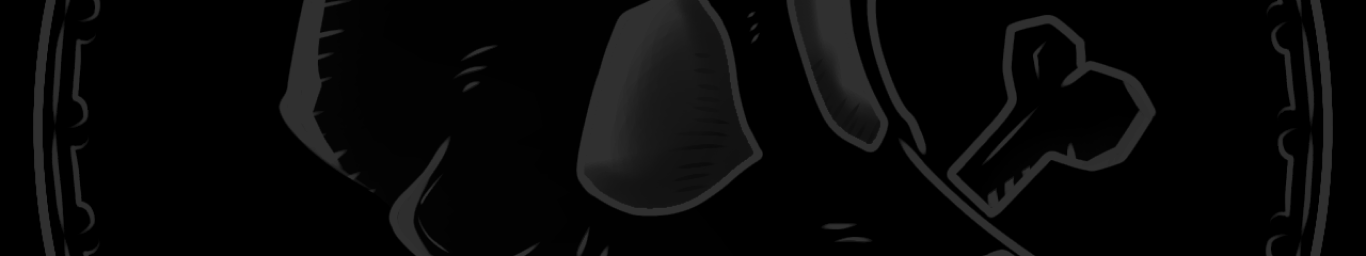
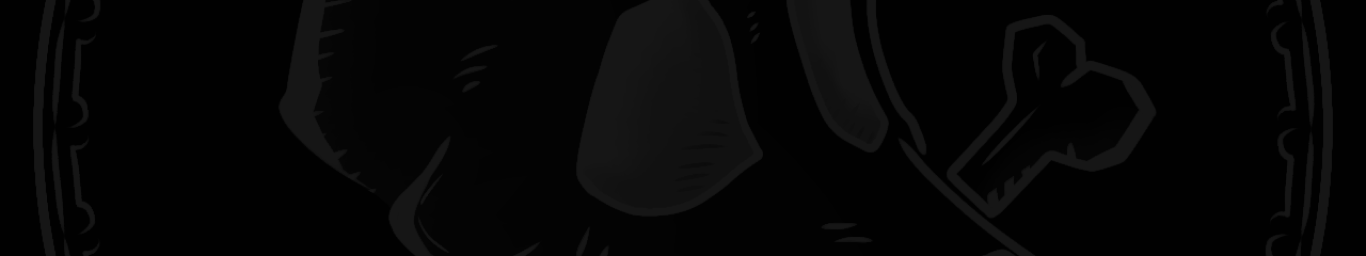
chore: first card finished, second lack stylize

diff --git a/src/components/SecondScreen/Overview/index.css b/src/components/SecondScreen/Overview/index.css
@@ -1,0 +1,111 @@
+@import url('https://fonts.googleapis.com/css2?family=Nunito:wght@300;600&display=swap');
+
+.root {
+    background-color: #F6F6F6;
+    margin: 0;
+}
+ 
+.flyerImg {
+    width: 500px;
+}
+
+.containerArticles {
+    display: flex;
+    justify-content: center;
+    align-items: center;
+    width: 100%;
+}
+
+.articleDate {
+    width: 45%;
+
+}
+
+.articleInfo {
+    width: 55%;
+
+}
+
+/* Calendario */
+.containerCalendar {
+    display: flex;
+    justify-content: center;
+    align-items: center;
+}
+
+.calendar {
+    position: relative;
+    width: 140px;
+    background-color: #F6F6F6;
+    text-align: center;
+    border-radius: 8px;
+    overflow: hidden;
+    margin-top: 40px;
+    margin-bottom: 40px;
+}
+
+.calendar #monthName {
+    position: relative;
+    padding: 12px 10px;
+    background: #020F1F;
+    color: #fff;
+    font-size: 15px;
+    font-weight: 500;
+}
+
+.calendar #dayName {
+    margin-top: 13px;
+    font-size: 20px;
+    font-weight: 300;
+    color: #999;
+}
+
+.calendar #dayNumber {
+    margin-top: 5px;
+    margin-bottom: 5px;
+    line-height: 1em;
+    font-size: 40px;
+    font-weight: 700;
+    color: #333;
+}
+
+.calendar #year {
+    margin-bottom: 13px;
+    font-size: 20px;
+    font-weight: 500;
+    color: #999;
+}
+
+/* Textos */
+.title {
+    font-family: 'Nunito', sans-serif;
+    font-weight: 600;
+    font-size: 24px;
+}
+
+.subtitle {
+    font-family: 'Nunito';
+    font-weight: 300;
+    font-size: 15px;
+    margin-bottom: 10px;
+    margin-top: 10px;
+}
+
+
+.texts {
+    font-family: 'Nunito';
+    font-weight: 300;
+    font-size: 14px;
+    margin: 10px 0 10px 12px;
+}
+
+.iconText {
+    display: flex;
+    align-items: center;
+}
+
+.buttonMaps {
+    color: inherit;
+    text-transform: none !important;
+    text-decoration: underline #111 !important;
+}

diff --git a/src/components/SecondScreen/Overview/index.tsx b/src/components/SecondScreen/Overview/index.tsx
@@ -1,0 +1,65 @@
+
+import { Button, Paper } from '@material-ui/core';
+import Flyer from '../../../assets/Images/flyer.jpg';
+import RoomIcon from '@material-ui/icons/Room';
+import DomainIcon from '@material-ui/icons/Domain';
+
+import Info from './texts.json';
+import './index.css';
+
+const Date = () => {
+
+  return (
+    <div className='containerCalendar'>
+      <div className='calendar'>
+        <p id='monthName'>Noviembre</p>
+        <p id='dayName'>Sábado</p>
+        <p id='dayNumber'>12</p>
+        <p id='year'>2022</p>
+      </div>
+    </div>
+  )
+}
+ 
+const Overview = () => {
+  return ( 
+    <div className='root'> 
+      <Paper elevation={10}>
+        <img src={ Flyer } className="flyerImg" alt="Flyer de Clavo" />
+        <div className='containerArticles'>
+          <article className='articleDate'>
+            { Date() }
+          </article>
+          <article className='articleInfo'>
+            <p className='title'>
+              { Info.titulo }
+            </p>
+            <p className='subtitle'>
+              { Info.fecha }
+            </p>
+            <div className="iconText">
+              <RoomIcon fontSize="small" />
+              <p className='texts'>
+                { Info.lugar }
+              </p>
+            </div>
+            <div className="iconText">
+              <DomainIcon fontSize="small" />
+              <p className='texts'>
+                { Info.direccion }
+              </p>
+            </div>
+            <a href="https://goo.gl/maps/RDH9LXwwcKso6mS5A" rel="noreferrer" target="_blank">
+              <Button className="buttonMaps">
+                Ver en Google Maps
+              </Button>
+            </a>
+          </article> 
+
+        </div>
+      </Paper>
+    </div>
+  )
+}
+
+export default Overview;

diff --git a/src/components/SecondScreen/EventInformation/index.tsx b/src/components/SecondScreen/EventInformation/index.tsx
@@ -1,0 +1,64 @@
+import { Button, Divider, Paper } from '@material-ui/core';
+
+import Info from './texts.json';
+import './index.css';
+ 
+const EventInformation = () => {
+  return ( 
+    <div className='root'> 
+      <Paper elevation={10} className='paper'>
+        <h6 className='titleInformation'>
+          INFORMACIÓN IMPORTANTE
+        </h6>
+        <p>
+          {Info.cabecera}
+        </p>
+        <p>
+          {Info.subCabecera}
+        </p>
+        <p className='titleFecha'>
+          {Info.primerFecha}
+        </p>
+        <p>
+          {Info.primerValor}
+        </p>
+        <p className='titleFecha'>
+          {Info.segundaFecha}
+        </p>
+        <p>
+          {Info.segundoValor}
+        </p>
+        <Divider className='divider'/> 
+        <p className='titleFecha'>
+          {Info.asistentes}
+        </p>
+        <p>
+          {Info.infoAsistentes1}
+        </p>
+        <p> 
+          {Info.infoAsistentes2}
+        </p>
+        <Divider className='divider'/> 
+        <p className='titleFecha'>
+          {Info.tituloHorario} 
+        </p>
+        <p>
+          {Info.horarioPuerta}
+        </p>
+        <p>
+          {Info.horarioClavo}
+        </p>
+        <p>
+          {Info.horarioDj}
+        </p>
+        <Divider className='divider'/> 
+        <Button variant="contained" className='buttonBuy'>
+          COMPRAR ENTRADAS
+        </Button>
+      </Paper>
+    </div>
+  )
+}
+
+export default EventInformation;
+ 

diff --git a/src/components/SecondScreen/EventInformation/index.css b/src/components/SecondScreen/EventInformation/index.css
@@ -1,0 +1,47 @@
+@import url('https://fonts.googleapis.com/css2?family=Nunito:wght@300;600&display=swap');
+
+.paper {
+    width: 700px;
+    display: flex;
+    flex-direction: column;
+    justify-content: center;
+    align-items: center;
+}
+
+.titleInformation {
+    margin: 35px 0 15px 0;
+    background-color: #1A406F;
+    width: 85%;
+    color: #fff;
+    text-align: center;
+    font-family: 'Nunito';
+    font-weight: 600;
+    font-size: 15px;
+    padding: 7px;
+}
+
+.buttonBuy {
+    padding: 10px 40px 10px 40px !important;
+    background: #3D00E6 !important;
+    box-shadow: 0px 4px 4px rgba(0, 0, 0, 0.25) !important;
+    color: #fff !important;
+    font-family: 'Roboto' !important;
+    font-weight: 300 !important;
+    font-size: 13px !important;
+    border-radius: 10px !important;
+    margin-top: 35px !important;
+    margin-bottom: 35px !important;
+}
+
+.titleFecha {
+    font-family: 'Nunito';
+    font-weight: 700;
+    font-size: 16px;
+    color: #1A406F;
+    margin-top: 35px;
+    margin-bottom: 10px;
+}
+
+.divider {
+    width: 80%;
+}

diff --git a/src/components/FirstScreen/Icons/index.tsx b/src/components/FirstScreen/Icons/index.tsx
@@ -28,7 +28,7 @@ const Icons = () => {
             <path d="M8 0a8 8 0 1 0 0 16A8 8 0 0 0 8 0zm3.669 11.538a.498.498 0 0 1-.686.165c-1.879-1.147-4.243-1.407-7.028-.77a.499.499 0 0 1-.222-.973c3.048-.696 5.662-.397 7.77.892a.5.5 0 0 1 .166.686zm.979-2.178a.624.624 0 0 1-.858.205c-2.15-1.321-5.428-1.704-7.972-.932a.625.625 0 0 1-.362-1.194c2.905-.881 6.517-.454 8.986 1.063a.624.624 0 0 1 .206.858zm.084-2.268C10.154 5.56 5.9 5.419 3.438 6.166a.748.748 0 1 1-.434-1.432c2.825-.857 7.523-.692 10.492 1.07a.747.747 0 1 1-.764 1.288z"/>
           </svg>
         </button>  
-        </a>
+      </a>
 
       <a href="https://www.instagram.com/clavo.oficial/" rel="noreferrer" target="_blank">
         <button className="buttonIcon">

diff --git a/src/containers/TicketOperation/index.tsx b/src/containers/TicketOperation/index.tsx
@@ -1,4 +1,4 @@
-import { Headboard, Header } from '../../components';
+import { EventInformation, Headboard, Header, Overview } from '../../components';
 import './index.css';
 
 const TicketOperation = () => {
@@ -6,6 +6,10 @@ const TicketOperation = () => {
     <>
       <Header />
       <Headboard />
+      <div className='containerCards'>
+        <Overview />
+        <EventInformation />
+      </div>
     </>
   )
 }

diff --git a/src/components/index.ts b/src/components/index.ts
@@ -3,3 +3,7 @@ export { default as Card } from './FirstScreen/Card';
 
 export { default as Header } from './SecondScreen/Header';
 export { default as Headboard } from './SecondScreen/Headboard';
+export { default as Overview } from './SecondScreen/Overview';
+export { default as EventInformation } from './SecondScreen/EventInformation';
+
+

diff --git a/src/components/SecondScreen/Headboard/index.css b/src/components/SecondScreen/Headboard/index.css
@@ -1,10 +1,5 @@
 .background {
-    background-image: 
-    linear-gradient(
-      rgba(0, 0, 0, 0.5),
-      rgba(0, 0, 0, 0.5)
-    ),
-    url(../../../assets/Images/background.png);
+    background-image: url(../../../assets/Images/background.png);
     background-repeat: no-repeat;
     background-size: 100%;
     height: 28vh;

diff --git a/src/containers/TicketOperation/index.css b/src/containers/TicketOperation/index.css
@@ -1,0 +1,8 @@
+.containerCards {
+    background-color: #F6F6F6;
+    padding-top: 100px;
+    padding-bottom: 100px;
+    display: flex;
+    justify-content: space-around;
+
+}
